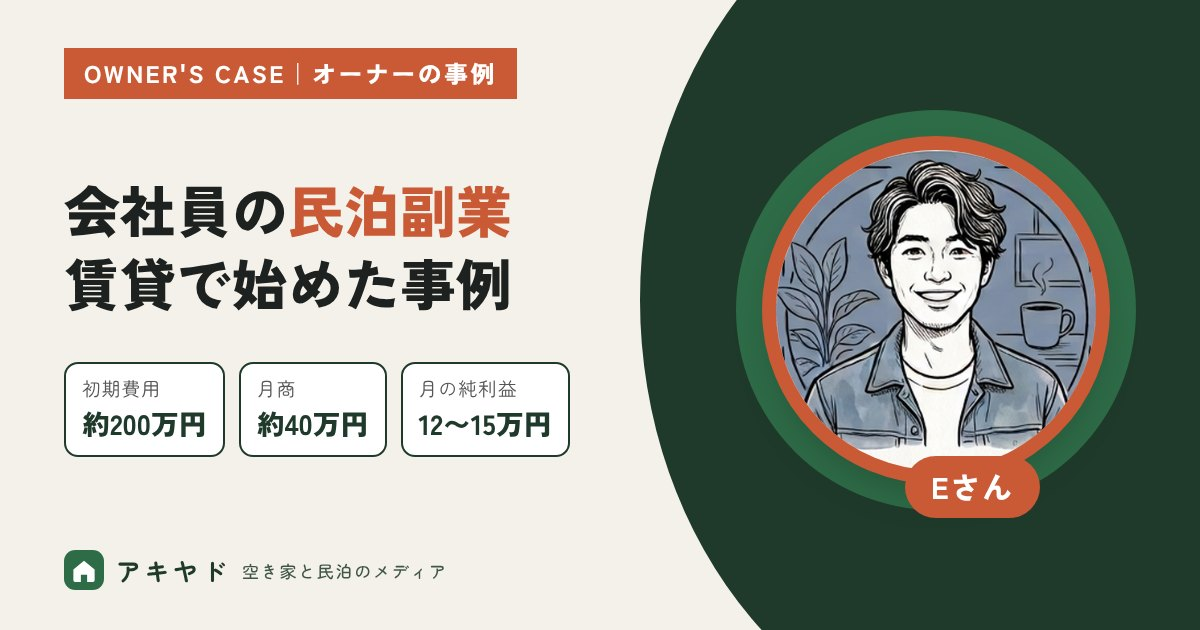
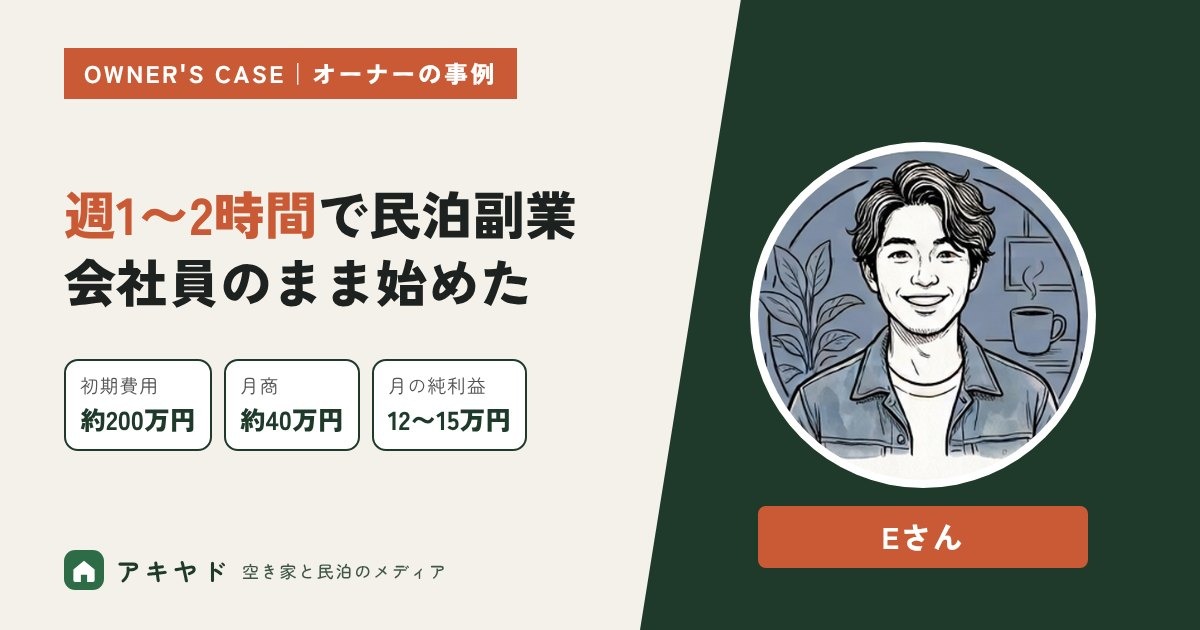
事例のトップ画像: 円を減らした斜めの帯のデザインに、見出しと図形の余白・アイコンの位置を直す、マニュアル14-5c
Claude-Session: https://claude.ai/code/session_013hBbjahgzJghnMSabdd3SA

Changed region(s): [[0.5242, 0.0, 0.9558, 1.0], [0.0308, 0.2714, 0.4933, 0.5127], [0.0308, 0.5429, 0.4625, 0.7238]]

diff --git a/tools/eyecatch.py b/tools/eyecatch.py
@@ -197,23 +197,22 @@ LAYOUT_CSS = {
 .logo{z-index:2;left:50%;transform:translateX(-50%);bottom:28px;color:#fff}""",
     "case": """
 .w{position:relative;width:1200px;height:630px;background:#f4f1ea;color:#1d211f;overflow:hidden}
-.w::before{content:"";position:absolute;right:-200px;top:-150px;width:760px;height:900px;border-radius:50%;background:#1f3a2b}
-.w::after{content:"";position:absolute;right:64px;top:110px;width:400px;height:400px;border-radius:50%;background:#2e6b47}
-.av{position:absolute;z-index:2;right:104px;top:150px;width:320px;height:320px;border-radius:50%;background:#fff center/cover no-repeat;box-shadow:0 0 0 14px #c95a35,0 18px 40px rgba(0,0,0,.25)}
-.who{position:absolute;z-index:3;right:160px;top:456px;padding:8px 26px 10px;border-radius:999px;background:#c95a35;color:#fff;font-family:"Zen Kaku Gothic New";font-weight:900;font-size:30px;letter-spacing:.06em;white-space:nowrap}
+.w::before{content:"";position:absolute;right:0;top:0;width:560px;height:630px;background:#1f3a2b;clip-path:polygon(18% 0,100% 0,100% 100%,0 100%)}
+.av{position:absolute;z-index:2;right:112px;top:150px;width:330px;height:330px;border-radius:50%;background:#fff center/cover no-repeat;box-shadow:0 0 0 8px #fff}
+.who{position:absolute;z-index:3;right:112px;top:506px;width:330px;box-sizing:border-box;text-align:center;padding:8px 0 10px;border-radius:8px;background:#c95a35;color:#fff;font-family:"Zen Kaku Gothic New";font-weight:900;font-size:30px;letter-spacing:.06em;white-space:nowrap}
 .tag{position:absolute;z-index:2;left:64px;top:48px;padding:7px 20px 9px;background:#c95a35;color:#fff;font-family:"Zen Kaku Gothic New";font-weight:900;font-size:24px;letter-spacing:.1em}
-.left{position:absolute;z-index:2;left:64px;top:112px;bottom:112px;width:600px;display:flex;flex-direction:column;justify-content:center;gap:44px}
-.t{position:relative;width:560px}
+.left{position:absolute;z-index:2;left:64px;top:112px;bottom:112px;width:560px;display:flex;flex-direction:column;justify-content:center;gap:44px}
+.t{position:relative;width:520px}
 .h{font-family:"Zen Kaku Gothic New";font-weight:900;font-size:56px;line-height:1.3;white-space:nowrap}
 .h em{font-style:normal;color:#c95a35}
-.chips{position:relative;display:flex;gap:14px}
-.chip{padding:10px 16px 12px;background:#fff;border-radius:14px;border:2px solid #1f3a2b}
+.chips{position:relative;display:flex;gap:12px;max-width:560px}
+.chip{padding:10px 14px 12px;background:#fff;border-radius:14px;border:2px solid #1f3a2b}
 .chip small{display:block;font-size:19px;color:#555;letter-spacing:.04em}
-.chip b{display:block;margin-top:2px;font-family:"Zen Kaku Gothic New";font-weight:900;font-size:28px;color:#1f3a2b;white-space:nowrap}
+.chip b{display:block;margin-top:2px;font-family:"Zen Kaku Gothic New";font-weight:900;font-size:26px;color:#1f3a2b;white-space:nowrap}
 .logo{z-index:3;left:64px;bottom:40px;color:#1f3a2b}
 .kicker{display:none}
-.avs{position:absolute;z-index:2;right:96px;top:120px;width:360px;display:grid;grid-template-columns:repeat(3,108px);gap:18px}
-.avs i{display:block;width:108px;height:108px;border-radius:50%;background:#fff center/cover no-repeat;box-shadow:0 0 0 6px #c95a35}""",
+.avs{position:absolute;z-index:2;right:110px;top:50%;transform:translateY(-50%);width:360px;display:grid;grid-template-columns:repeat(3,108px);gap:18px}
+.avs i{display:block;width:108px;height:108px;border-radius:50%;background:#fff center/cover no-repeat;box-shadow:0 0 0 4px #fff}""",
     "marker": PHOTO_CSS.replace("--fs", "--fs0") + "\n.h{font-size:66px;white-space:nowrap;line-height:1.38;font-weight:700;margin-top:26px}\n.h em{font-style:normal;background:linear-gradient(transparent 64%,rgba(208,97,59,.9) 64%);padding:0 4px}\n.sub{margin-top:18px;font-size:26px;opacity:.9}",
     "type": TYPE_CSS.replace("--fs", "--fs0") + "\n.h{font-size:64px;white-space:nowrap;line-height:1.42;font-weight:700;margin-top:24px}\n.h em{font-style:normal;color:#2e6b47}",
 }
